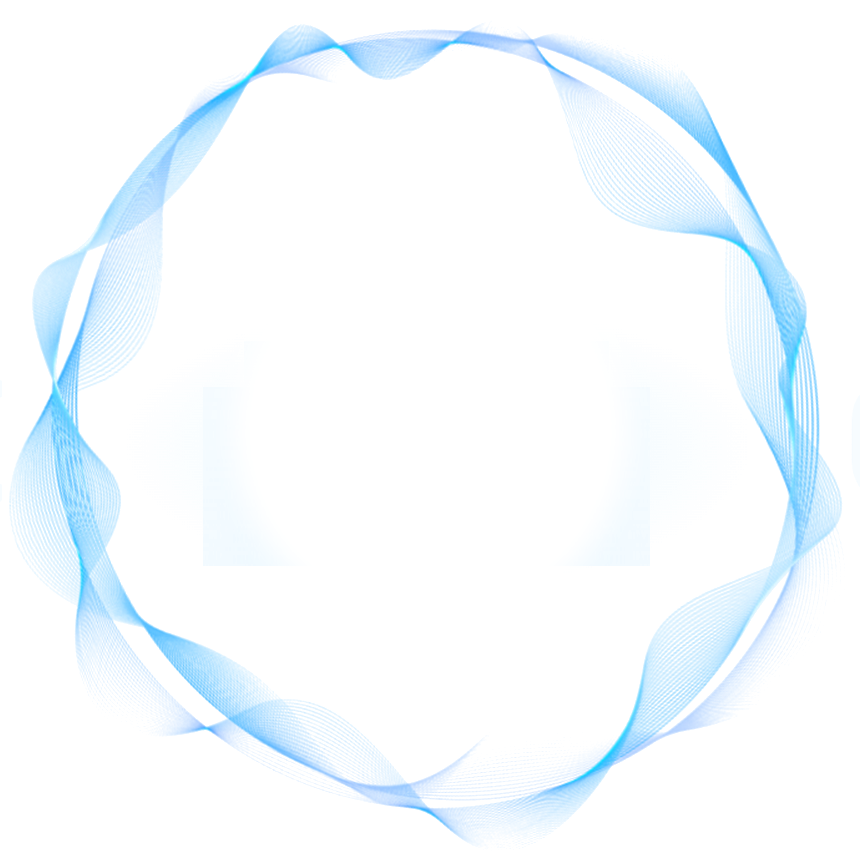
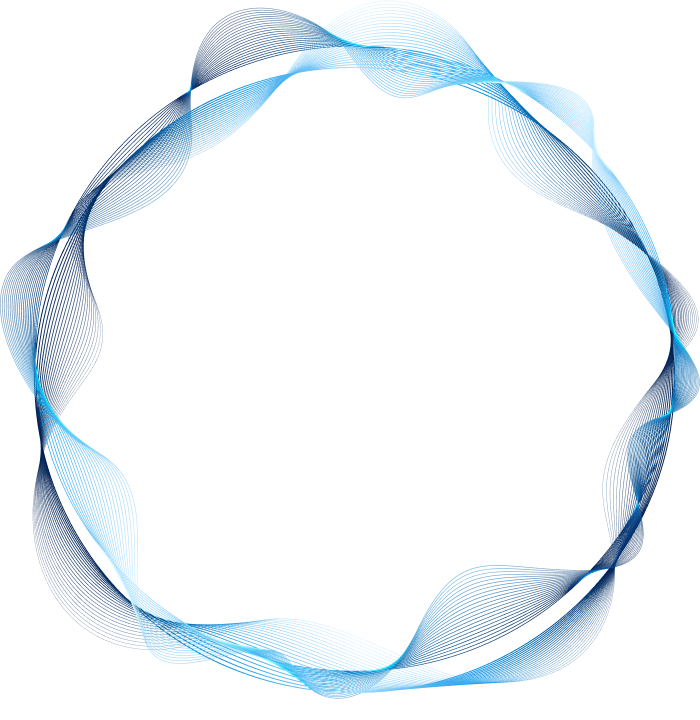
3SZONE 링 이미지 교체(선명한 라인 PNG), screen 블렌드로 검게 보이던 문제 해결

Changed region(s): [[0.0, 0.0, 1.0, 0.9778]]

diff --git a/css/style.css b/css/style.css
@@ -103,9 +103,9 @@ h4{font-size:20px;letter-spacing:-.01em}
 .zone-in{position:relative;display:grid;place-items:center;min-height:540px}
 .zone-in>*{grid-area:1/1}
 .zone-orb{position:relative;width:min(530px,84vw);aspect-ratio:1}
-.zone-orb img{position:absolute;inset:0;width:100%;height:100%;
-  transform-origin:50% 50%;animation:orbSpin 54s linear infinite;opacity:.3}
-.zone-orb .r2{animation-name:orbSpin2;animation-duration:78s;animation-direction:reverse;opacity:.6}
+.zone-orb img{position:absolute;inset:0;width:100%;height:100%;object-fit:contain;
+  mix-blend-mode:screen;transform-origin:50% 50%;animation:orbSpin 54s linear infinite;opacity:.55}
+.zone-orb .r2{animation-name:orbSpin2;animation-duration:78s;animation-direction:reverse;opacity:.9}
 @keyframes orbSpin{to{transform:rotate(360deg)}}
 @keyframes orbSpin2{from{transform:rotate(24deg)}to{transform:rotate(384deg)}}
 .zone-txt{position:relative;text-align:center}

diff --git a/index.html b/index.html
@@ -5,7 +5,7 @@
 <meta name="viewport" content="width=device-width, initial-scale=1">
 <title>(주)와이씨앤 | 스마트 통합관제 솔루션</title>
 <link rel="stylesheet" href="https://cdn.jsdelivr.net/gh/orioncactus/pretendard@v1.3.9/dist/web/static/pretendard.min.css">
-<link rel="stylesheet" href="css/style.css?v=202608251423">
+<link rel="stylesheet" href="css/style.css?v=202608251429">
 </head>
 <body>
 
@@ -111,7 +111,7 @@
 <script>
 new daum.roughmap.Lander({ timestamp: "1662599661679", key: "2bnoo", mapWidth: "1200", mapHeight: "440" }).render();
 </script>
-<script src="js/notice.js?v=202608251423"></script>
-<script src="js/script.js?v=202608251423"></script>
+<script src="js/notice.js?v=202608251429"></script>
+<script src="js/script.js?v=202608251429"></script>
 </body>
 </html>

diff --git a/admin.html b/admin.html
@@ -6,7 +6,7 @@
 <meta name="robots" content="noindex, nofollow">
 <title>공지사항 작성 | (주)와이씨앤</title>
 <link rel="stylesheet" href="https://cdn.jsdelivr.net/gh/orioncactus/pretendard@v1.3.9/dist/web/static/pretendard.min.css">
-<link rel="stylesheet" href="css/style.css?v=202608251423">
+<link rel="stylesheet" href="css/style.css?v=202608251429">
 </head>
 <body>
 
@@ -94,8 +94,8 @@
 
 <div data-include="partials/footer.html"></div>
 
-<script src="js/notice.js?v=202608251423"></script>
-<script src="js/admin.js?v=202608251423"></script>
-<script src="js/script.js?v=202608251423"></script>
+<script src="js/notice.js?v=202608251429"></script>
+<script src="js/admin.js?v=202608251429"></script>
+<script src="js/script.js?v=202608251429"></script>
 </body>
 </html>

diff --git a/notice.html b/notice.html
@@ -5,7 +5,7 @@
 <meta name="viewport" content="width=device-width, initial-scale=1">
 <title>공지사항 | (주)와이씨앤</title>
 <link rel="stylesheet" href="https://cdn.jsdelivr.net/gh/orioncactus/pretendard@v1.3.9/dist/web/static/pretendard.min.css">
-<link rel="stylesheet" href="css/style.css?v=202608251423">
+<link rel="stylesheet" href="css/style.css?v=202608251429">
 </head>
 <body>
 
@@ -38,7 +38,7 @@
 
 <div data-include="partials/footer.html"></div>
 
-<script src="js/notice.js?v=202608251423"></script>
-<script src="js/script.js?v=202608251423"></script>
+<script src="js/notice.js?v=202608251429"></script>
+<script src="js/script.js?v=202608251429"></script>
 </body>
 </html>

diff --git a/location.html b/location.html
@@ -5,7 +5,7 @@
 <meta name="viewport" content="width=device-width, initial-scale=1">
 <title>오시는 길 | (주)와이씨앤</title>
 <link rel="stylesheet" href="https://cdn.jsdelivr.net/gh/orioncactus/pretendard@v1.3.9/dist/web/static/pretendard.min.css">
-<link rel="stylesheet" href="css/style.css?v=202608251423">
+<link rel="stylesheet" href="css/style.css?v=202608251429">
 </head>
 <body>
 
@@ -40,6 +40,6 @@
 new daum.roughmap.Lander({ timestamp: "1662599661679", key: "2bnoo", mapWidth: "1200", mapHeight: "440" }).render();
 </script>
 
-<script src="js/script.js?v=202608251423"></script>
+<script src="js/script.js?v=202608251429"></script>
 </body>
 </html>

diff --git a/3szone.html b/3szone.html
@@ -5,7 +5,7 @@
 <meta name="viewport" content="width=device-width, initial-scale=1">
 <title>안전 통합관제 플랫폼 | (주)와이씨앤</title>
 <link rel="stylesheet" href="https://cdn.jsdelivr.net/gh/orioncactus/pretendard@v1.3.9/dist/web/static/pretendard.min.css">
-<link rel="stylesheet" href="css/style.css?v=202608251423">
+<link rel="stylesheet" href="css/style.css?v=202608251429">
 </head>
 <body class="s3-page">
 
@@ -66,6 +66,6 @@
 
 <div data-include="partials/footer.html"></div>
 
-<script src="js/script.js?v=202608251423"></script>
+<script src="js/script.js?v=202608251429"></script>
 </body>
 </html>

diff --git a/system-attendance.html b/system-attendance.html
@@ -5,7 +5,7 @@
 <meta name="viewport" content="width=device-width, initial-scale=1">
 <title>스마트 출역관리 시스템 | (주)와이씨앤</title>
 <link rel="stylesheet" href="https://cdn.jsdelivr.net/gh/orioncactus/pretendard@v1.3.9/dist/web/static/pretendard.min.css">
-<link rel="stylesheet" href="css/style.css?v=202608251423">
+<link rel="stylesheet" href="css/style.css?v=202608251429">
 </head>
 <body>
 
@@ -37,6 +37,6 @@
 
 <div data-include="partials/footer.html"></div>
 
-<script src="js/script.js?v=202608251423"></script>
+<script src="js/script.js?v=202608251429"></script>
 </body>
 </html>

diff --git a/system-sensor.html b/system-sensor.html
@@ -5,7 +5,7 @@
 <meta name="viewport" content="width=device-width, initial-scale=1">
 <title>스마트 센서관제 시스템 | (주)와이씨앤</title>
 <link rel="stylesheet" href="https://cdn.jsdelivr.net/gh/orioncactus/pretendard@v1.3.9/dist/web/static/pretendard.min.css">
-<link rel="stylesheet" href="css/style.css?v=202608251423">
+<link rel="stylesheet" href="css/style.css?v=202608251429">
 </head>
 <body>
 
@@ -37,6 +37,6 @@
 
 <div data-include="partials/footer.html"></div>
 
-<script src="js/script.js?v=202608251423"></script>
+<script src="js/script.js?v=202608251429"></script>
 </body>
 </html>

diff --git a/system-video.html b/system-video.html
@@ -5,7 +5,7 @@
 <meta name="viewport" content="width=device-width, initial-scale=1">
 <title>스마트 영상관제 시스템 | (주)와이씨앤</title>
 <link rel="stylesheet" href="https://cdn.jsdelivr.net/gh/orioncactus/pretendard@v1.3.9/dist/web/static/pretendard.min.css">
-<link rel="stylesheet" href="css/style.css?v=202608251423">
+<link rel="stylesheet" href="css/style.css?v=202608251429">
 </head>
 <body>
 
@@ -37,6 +37,6 @@
 
 <div data-include="partials/footer.html"></div>
 
-<script src="js/script.js?v=202608251423"></script>
+<script src="js/script.js?v=202608251429"></script>
 </body>
 </html>

diff --git a/system-process.html b/system-process.html
@@ -5,7 +5,7 @@
 <meta name="viewport" content="width=device-width, initial-scale=1">
 <title>건설공정 관리 시스템 | (주)와이씨앤</title>
 <link rel="stylesheet" href="https://cdn.jsdelivr.net/gh/orioncactus/pretendard@v1.3.9/dist/web/static/pretendard.min.css">
-<link rel="stylesheet" href="css/style.css?v=202608251423">
+<link rel="stylesheet" href="css/style.css?v=202608251429">
 </head>
 <body>
 
@@ -37,6 +37,6 @@
 
 <div data-include="partials/footer.html"></div>
 
-<script src="js/script.js?v=202608251423"></script>
+<script src="js/script.js?v=202608251429"></script>
 </body>
 </html>

diff --git a/system-twin.html b/system-twin.html
@@ -5,7 +5,7 @@
 <meta name="viewport" content="width=device-width, initial-scale=1">
 <title>디지털 트윈 시스템 | (주)와이씨앤</title>
 <link rel="stylesheet" href="https://cdn.jsdelivr.net/gh/orioncactus/pretendard@v1.3.9/dist/web/static/pretendard.min.css">
-<link rel="stylesheet" href="css/style.css?v=202608251423">
+<link rel="stylesheet" href="css/style.css?v=202608251429">
 </head>
 <body>
 
@@ -37,6 +37,6 @@
 
 <div data-include="partials/footer.html"></div>
 
-<script src="js/script.js?v=202608251423"></script>
+<script src="js/script.js?v=202608251429"></script>
 </body>
 </html>

diff --git a/system-location.html b/system-location.html
@@ -5,7 +5,7 @@
 <meta name="viewport" content="width=device-width, initial-scale=1">
 <title>위치 관제 시스템 | (주)와이씨앤</title>
 <link rel="stylesheet" href="https://cdn.jsdelivr.net/gh/orioncactus/pretendard@v1.3.9/dist/web/static/pretendard.min.css">
-<link rel="stylesheet" href="css/style.css?v=202608251423">
+<link rel="stylesheet" href="css/style.css?v=202608251429">
 </head>
 <body>
 
@@ -37,6 +37,6 @@
 
 <div data-include="partials/footer.html"></div>
 
-<script src="js/script.js?v=202608251423"></script>
+<script src="js/script.js?v=202608251429"></script>
 </body>
 </html>
